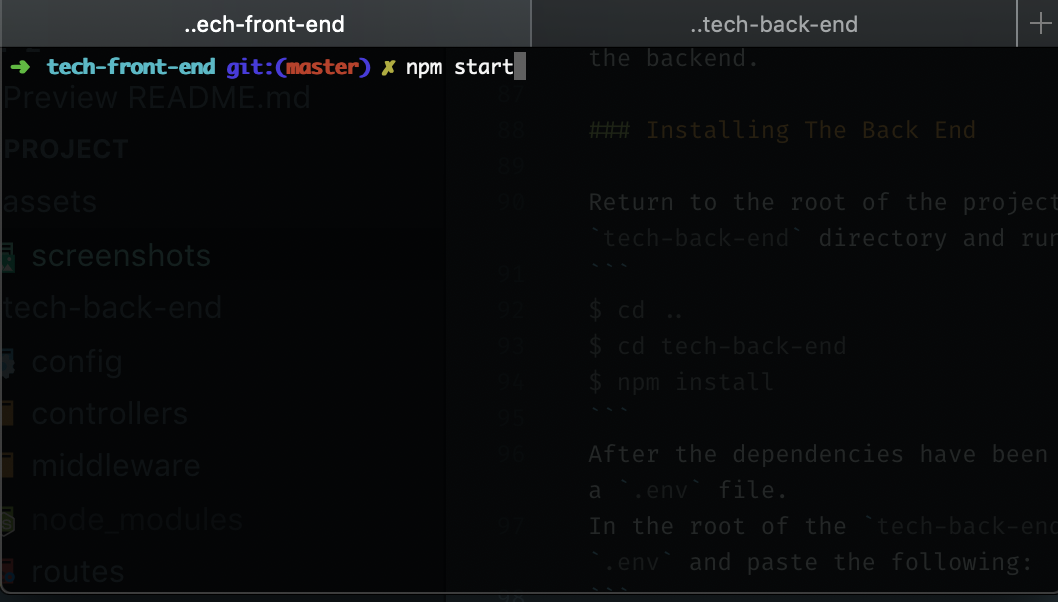
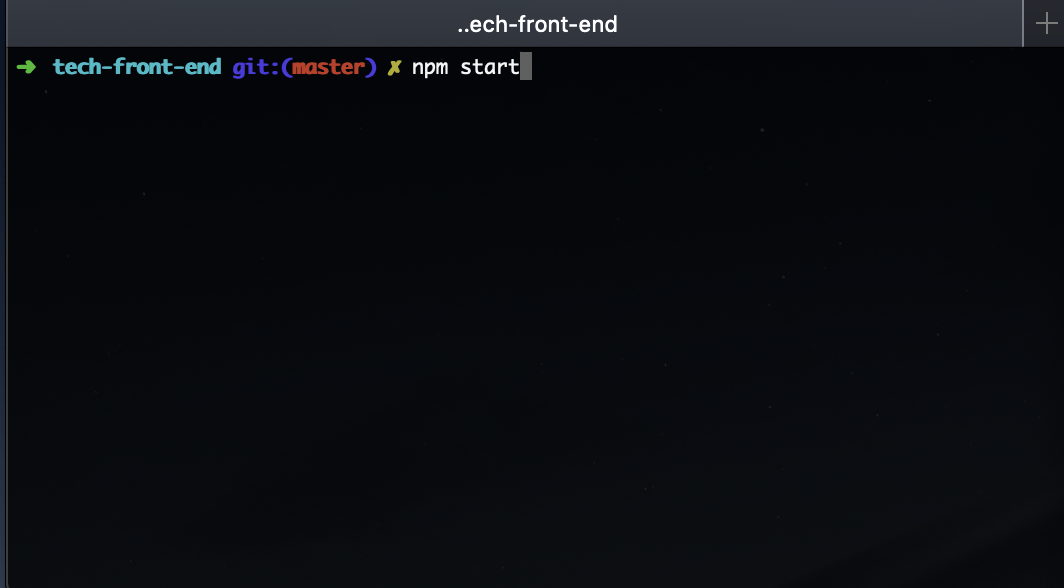
updated pictures

diff --git a/README.md b/README.md
@@ -115,8 +115,8 @@ You can now start up the project.
 To run the project, you will need to have two console windows open, one in the `tech-front-end` directory, and one in the `tech-back-end` directory. 
 
 <p align="center">
-  <img src="./assets/screenshots/terminal2.png" alt="Back End Terminal"/>
-  <img src="./assets/screenshots/terminal1.png" alt="Front End Terminal"/>
+  <img src="./assets/screenshots/terminals.png" alt=" Terminal"/>
+
 </p>
 
 Run `npm start` with the `tech-back-end` first and then run `npm start` with `tech-front-end` once the back-end finishes starting up.
